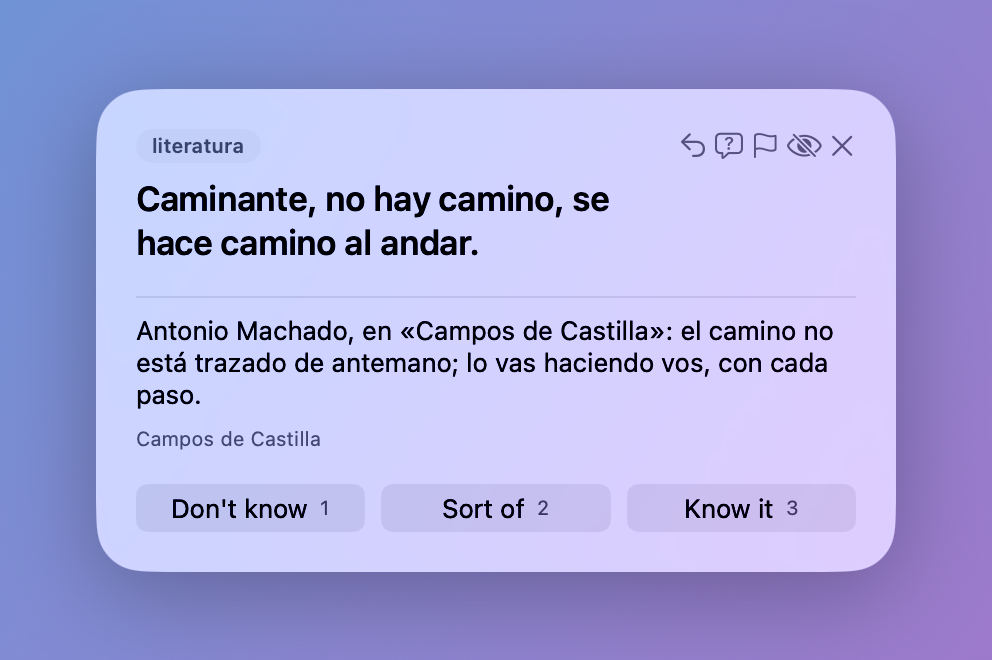
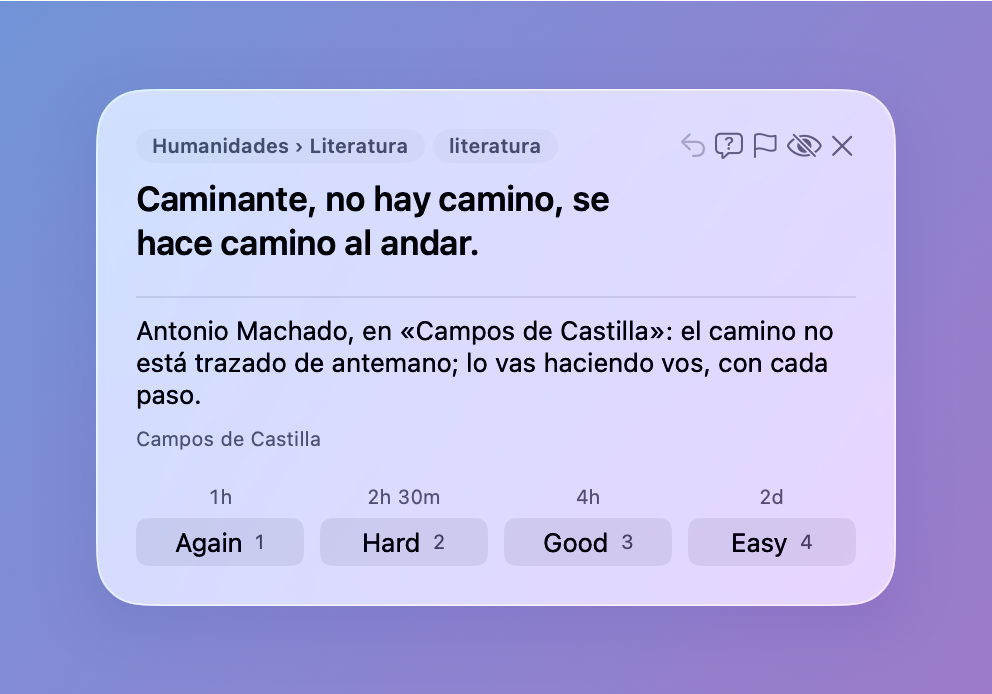
The README's pictures show Anki's four buttons with their intervals (#408's review)
Captured again as docs/development.md's "The README's pictures" says, with
a throwaway package outside the repo, its windows below the desktop picture:
the review panel on ¿Por qué el cielo es azul? and Caminante, no hay camino,
front and back, each card met with Again an hour before. The front picture
takes the back's new height. The alt texts name the four buttons.

diff --git a/docs/development.md b/docs/development.md
@@ -258,8 +258,8 @@ make clean-merged
 The pictures in `docs/images/` show the app's own views with Ficha Dev's sample cards, captured without showing anything on screen. After a change to the review panel or the capture window, capture them again the same way, with a throwaway Swift package outside the repo:
 
 1. The package depends on `Packages/FichaKit` by path, whose FichaData has the sample cards, and links in the `App/` files the views need, such as `ReviewPanelView.swift`, `ReviewPanelModel.swift` and, for the capture window, `CaptureView.swift` with `AppModel.swift` and what it uses. Its target defines `FICHA_DEV` and is isolated to the main actor, as the app's is.
-2. It opens an engine on an in-memory database and a `ManualTimeSource`, loads `SampleCards`, meets five new cards through review now, one each time, and moves the time an hour and a second forward, so they're due.
-3. Each picture is a borderless window with the review panel on a gradient, inside the same window so the Liquid Glass has something to show through. The card's front gets its back's height, the panel at the top, so the two pictures line up side by side. The capture window is a titled panel like `CaptureWindow`, captured with its shadow and drawn on the same gradient. So that it looks as it does with the keyboard, without taking it, the panel overrides `isKeyWindow` and AppKit's private `_hasActiveAppearance`: fine for a throwaway package, never for the app.
+2. It opens an engine on an in-memory database and a `ManualTimeSource`, loads `SampleCards`, meets five new cards through review now, one each time, rating each Again, which puts it on the first learning step, and moves the time an hour and a second forward, so they're due.
+3. Each picture is a borderless window with the review panel on a gradient, inside the same window so the Liquid Glass has something to show through. A card turned over shows Anki's four buttons with their intervals. The card's front gets its back's height, the panel at the top, so the two pictures line up side by side. The capture window is a titled panel like `CaptureWindow`, captured with its shadow and drawn on the same gradient. So that it looks as it does with the keyboard, without taking it, the panel overrides `isKeyWindow` and AppKit's private `_hasActiveAppearance`: fine for a throwaway package, never for the app.
 4. Each window goes below the desktop picture (`CGWindowLevelForKey(.desktopWindow) - 1`, ignoring the mouse), where macOS still draws it but nobody sees it, and `screencapture -x -l <window number>` captures it at the display's scale, with `-o` when the window's shadow should stay out. Run it with `CFFIXED_USER_HOME` set to a scratch folder, as `make render` does, so the app's files stay out of your home. Its preferences are the package's own, under its name, never Ficha Dev's.
 
 The menu can't be captured this way: it only draws while it's open on screen, and then it takes the mouse and keyboard, so it needs Lucas's OK and a few seconds of his screen. The same package builds an `NSMenu` with the items `MenuContent` shows in the real Ficha, opens it with `popUp(positioning:at:in:)` over the gradient in a floating window, captures that window's rectangle with `screencapture -x -R` from a timer that runs while the menu is open, and closes the menu with `cancelTracking()`.

diff --git a/README.md b/README.md
@@ -3,7 +3,7 @@
 Ficha is a small Mac app that lives in the menu bar and, every so often, shows you a tiny card: a word, a concept, a quote or a question. You flip it, say how well you knew it, and go back to what you were doing. Each card comes back around when you'd start to forget it: soon while it's new to you, and less and less often as you learn it. Everything stays on your Mac.
 
 <p align="center">
-  <img src="docs/images/review-panel.png" width="496" alt="Ficha's review panel, a small translucent panel, showing the card “¿Por qué el cielo es azul?” turned over to its back, with three buttons below: Don't know, Sort of and Know it.">
+  <img src="docs/images/review-panel.png" width="496" alt="Ficha's review panel, a small translucent panel, showing the card “¿Por qué el cielo es azul?” turned over to its back, with Anki's four buttons below, Again, Hard, Good and Easy, each under how long the card would wait: 1h, 2h 30m, 4h and 2d.">
 </p>
 
 The cards in these pictures are samples, in Spanish. Yours can be in any language.
@@ -26,7 +26,7 @@ In Settings you pick the hours, how many cards come at a time and how far apart,
 
 <p align="center">
   <img src="docs/images/card-front.png" width="49%" alt="The review panel showing only the front of a card, the quote “Caminante, no hay camino, se hace camino al andar.”, with a Flip button.">
-  <img src="docs/images/card-back.png" width="49%" alt="The same card turned over: Antonio Machado wrote it in “Campos de Castilla”, and its meaning, with the buttons Don't know, Sort of and Know it.">
+  <img src="docs/images/card-back.png" width="49%" alt="The same card turned over: Antonio Machado wrote it in “Campos de Castilla”, and its meaning, with the buttons Again, Hard, Good and Easy, each under how long the card would wait.">
 </p>
 
 A card shows its front first. Try to remember what's on the back, press Space to turn it over, and say how you did with Anki's four buttons: 1 for "Again", 2 for "Hard", 3 for "Good", which Space says too, or 4 for "Easy". Above each one is how long the card would wait if you pressed it, as in Anki. It takes a few seconds, and every button has its key, so you never need the mouse. A card you haven't met yet comes the same way, marked "New": try to remember its back too, even if you can't yet, and rate it like any other.
